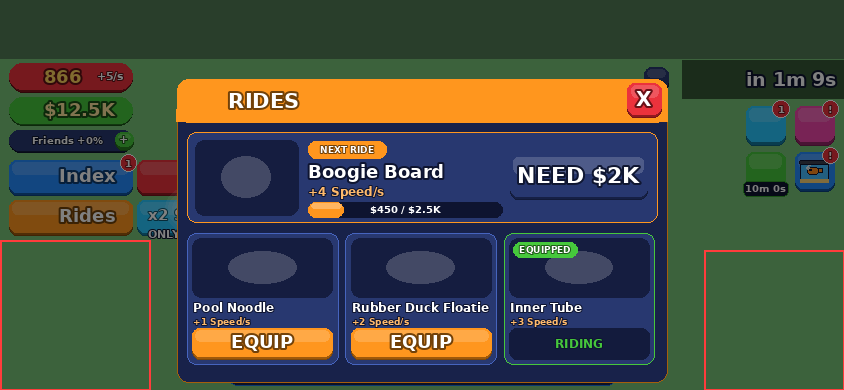
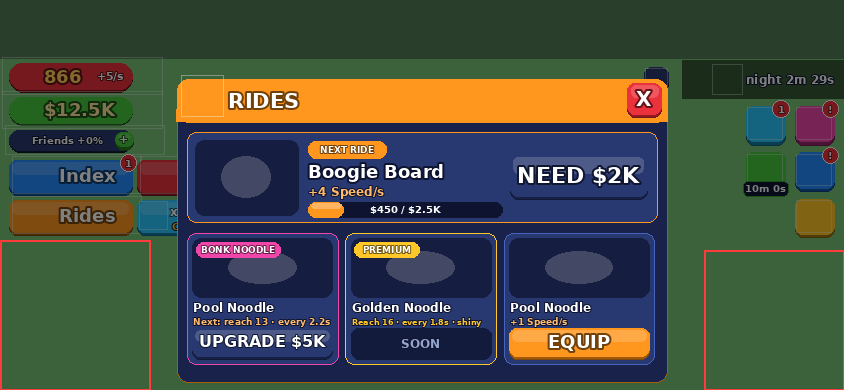
Friend invite reward + noodle upgrades
- Invite a friend with the Friends '+': when they join from it (Roblox
  join data), they get a Rare in their tank and so do you; if you're not
  in their server it waits for your next join (DataStore). Once per new
  player, at most 10 for any inviter. A toast on '+' says so
- Noodle upgrades: the first card in the Rides window shows your bonk
  noodle (Foam -> Super -> Mega: longer reach, faster swing, coins) and
  the Golden Noodle (game pass, shows SOON until it has an id)

Claude-Session: https://claude.ai/code/session_016U2BGmH486bstMbB3DLGUL

diff --git a/tools/preview/ui.py b/tools/preview/ui.py
@@ -83,7 +83,7 @@ local function fakeModel()
 	return { PivotTo = function() end, GetBoundingBox = function() return CFrame.new(), Vector3.new(2, 2, 2) end, ScaleTo = function() end,
 		GetExtentsSize = function() return Vector3.new(2, 2, 2) end }
 end
-MODULES["mod:Rides"] = function() return { build = fakeModel } end
+MODULES["mod:Rides"] = function() return { build = fakeModel, noodle = fakeModel } end
 MODULES["mod:Creatures"] = function() return { build = fakeModel } end
 local HUD = require("cmod:HUD")
 local Notify = require("cmod:Notify")
